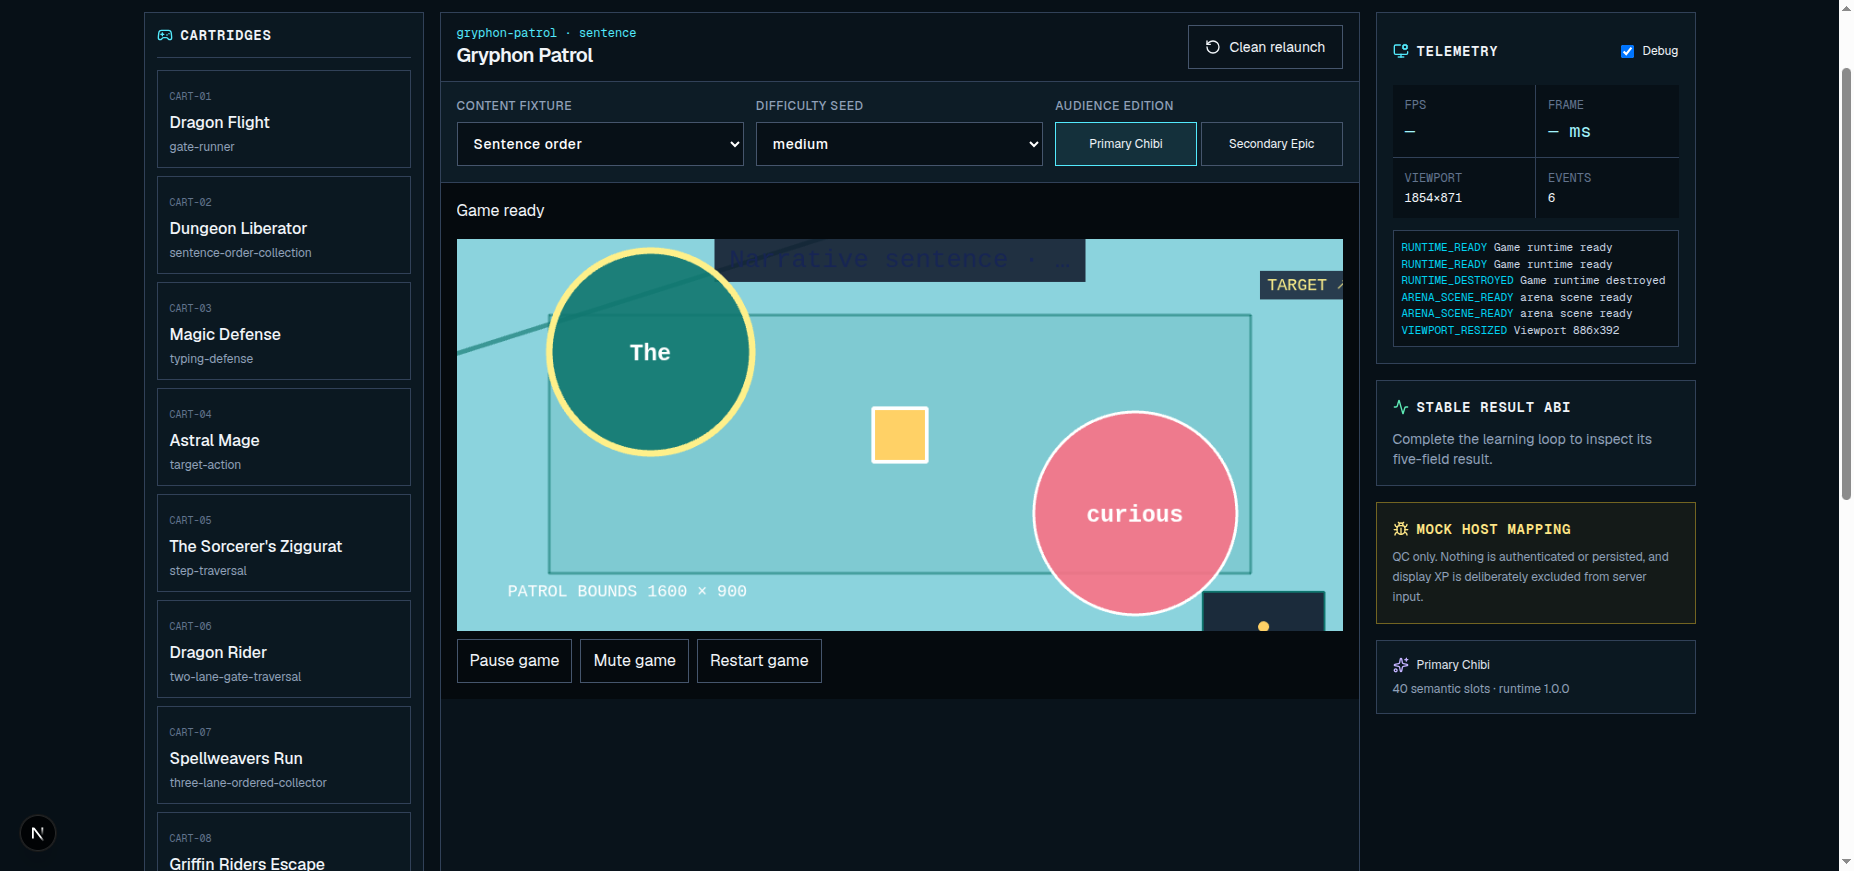
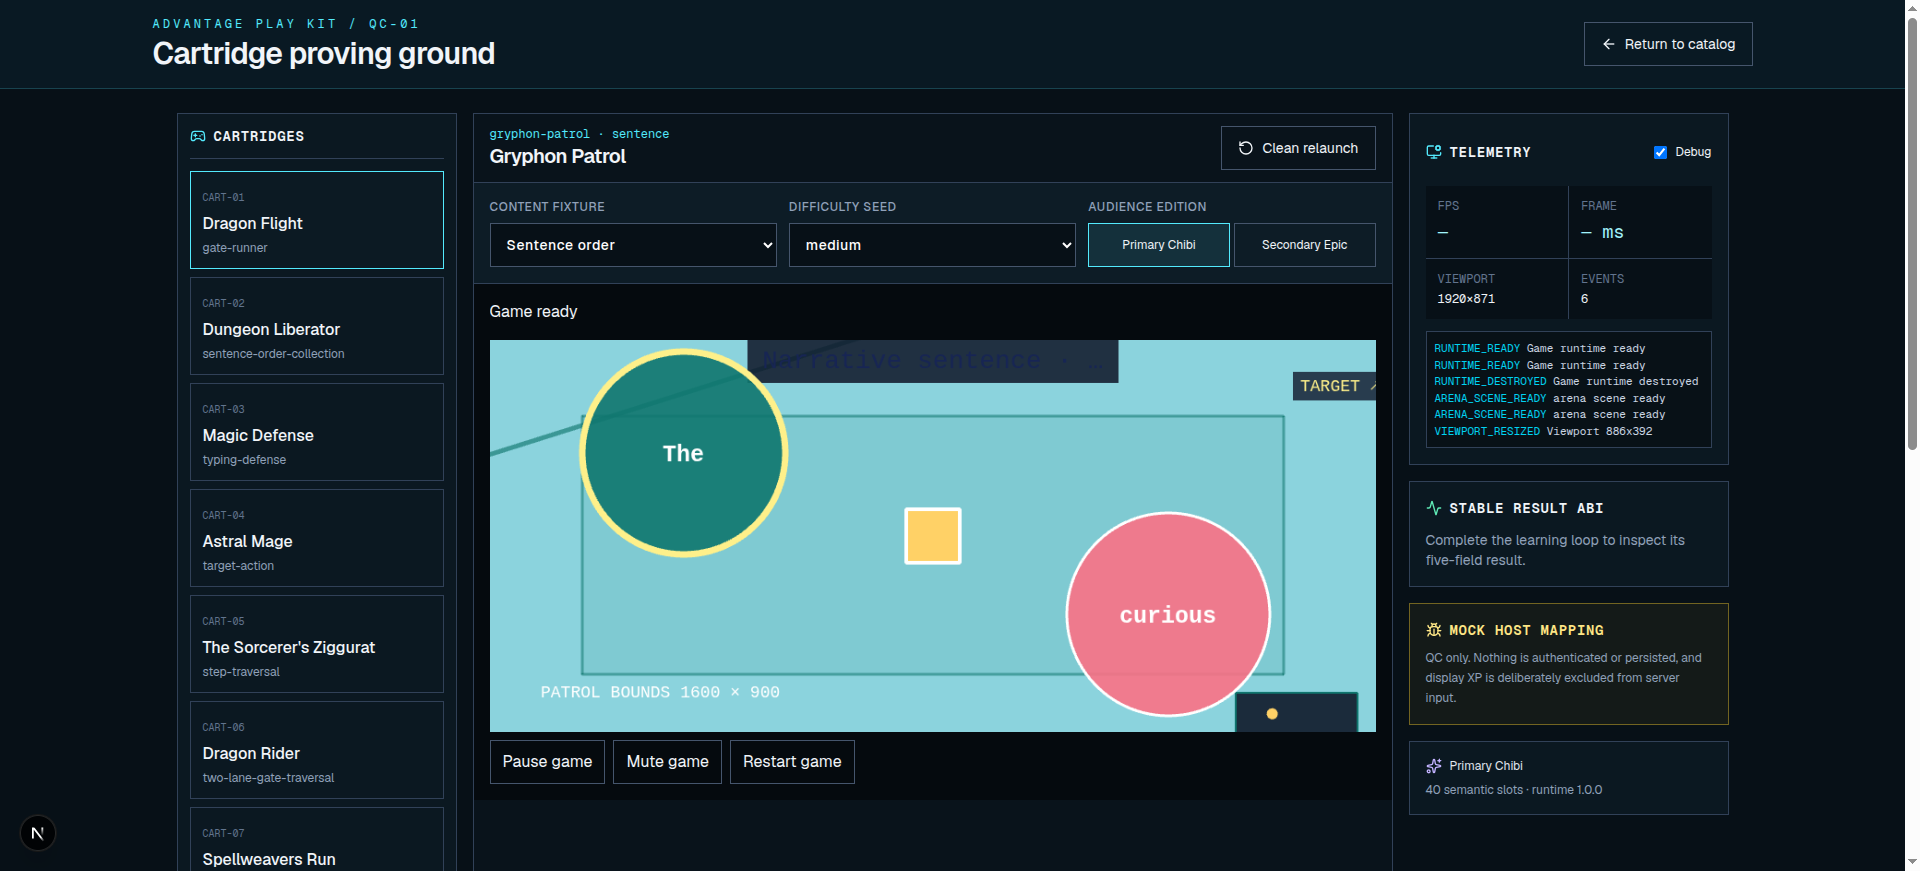
fix(games): close W4 review gaps (track_id: apk_arena_target_action_wave_w4_20260711)

diff --git a/packages/game-cartridges/src/families/arena/cartridge.ts b/packages/game-cartridges/src/families/arena/cartridge.ts
@@ -5,7 +5,7 @@ import type Phaser from "phaser";
 import type { ArenaWaveBlueprint } from "../../arena-wave-blueprints";
 import { createGameResults } from "../../internal/results";
 import type { GameCartridgeDefinition } from "../../internal/types";
-import { createArenaMechanicState, flapArenaState, resolveArenaMechanicAttempt } from ".";
+import { canResolveArenaAction, createArenaMechanicState, flapArenaState, projectToMinimap, resolveArenaMechanicAttempt } from ".";
 
 /** Options used by the shared W4 arena scene. */
 export interface ArenaSceneOptions {
@@ -55,6 +55,7 @@ function resolveRounds(blueprint: ArenaWaveBlueprint, input: VocabularyInput | S
 /** Creates one shared Phaser arena scene with cartridge-specific identity.
  * @param options Blueprint, content, edition, input, and host callbacks.
  * @returns A Phaser configuration with bounded movement and target resolution.
+ * @throws When host input is invalid or contains no playable targets.
  */
 export function createArenaGameConfig(options: ArenaSceneOptions): Phaser.Types.Core.GameConfig {
   const rounds = resolveRounds(options.blueprint, options.input);
@@ -122,11 +123,11 @@ export function createArenaGameConfig(options: ArenaSceneOptions): Phaser.Types.
           this.cameras.main.setBounds(0, 0, 1_600, 900).startFollow(player, true, 0.12, 0.12);
           this.add.text(870, 92, "TARGET ↗", { color: "#fef08a", fontSize: "18px", backgroundColor: "#0f172acc", padding: { x: 8, y: 6 } }).setScrollFactor(0);
         }
-        const title = this.add.text(24, 20, options.blueprint.id.replaceAll("-", " ").toUpperCase(), { color: options.edition.palette.text, fontSize: "18px", fontStyle: "bold" });
-        const prompt = this.add.text(480, 55, "", { color: options.edition.palette.text, backgroundColor: "#0f172add", fontSize: "28px", padding: { x: 16, y: 10 }, align: "center", wordWrap: { width: 760 } }).setOrigin(0.5, 0);
-        const progress = this.add.text(24, 500, "", { color: "#ffffff", fontSize: "17px" });
-        const minimap = this.add.rectangle(874, 478, 132, 76, 0x020617, 0.82).setStrokeStyle(2, accent);
-        const marker = this.add.circle(874, 478, 6, options.edition.palette.player);
+        const title = this.add.text(24, 20, options.blueprint.id.replaceAll("-", " ").toUpperCase(), { color: options.edition.palette.text, fontSize: "18px", fontStyle: "bold" }).setScrollFactor(0);
+        const prompt = this.add.text(480, 55, "", { color: options.edition.palette.text, backgroundColor: "#0f172add", fontSize: "28px", padding: { x: 16, y: 10 }, align: "center", wordWrap: { width: 760 } }).setOrigin(0.5, 0).setScrollFactor(0);
+        const progress = this.add.text(24, 500, "", { color: "#ffffff", fontSize: "17px" }).setScrollFactor(0);
+        const minimap = this.add.rectangle(874, 478, 132, 76, 0x020617, 0.82).setStrokeStyle(2, accent).setScrollFactor(0);
+        const marker = this.add.circle(874, 478, 6, options.edition.palette.player).setScrollFactor(0);
         void title; void minimap;
         const targets = [0, 1].map((slot) => {
           const [x, y] = targetLayout[slot]!;
@@ -150,8 +151,12 @@ export function createArenaGameConfig(options: ArenaSceneOptions): Phaser.Types.
           const round = rounds[roundIndex]; if (!round) return;
           totalAttempts += 1;
           const correct = choice === round.correct;
-          mechanicState = resolveArenaMechanicAttempt(mechanicState, correct);
           const target = targets.find((candidate) => candidate.label.text === choice) ?? targets[selectedIndex]!;
+          if (!canResolveArenaAction(mechanicState, { x: player.x, y: player.y }, { x: target.label.x, y: target.label.y })) {
+            options.diagnostic("ARENA_ACTION_OUT_OF_RANGE", { id: options.blueprint.id, altitude: mechanicState.altitude, playerX: player.x, playerY: player.y });
+            return;
+          }
+          mechanicState = resolveArenaMechanicAttempt(mechanicState, correct);
           const projectile = this.add.circle(player.x, player.y, 8, options.edition.palette.accent);
           this.tweens.add({ targets: projectile, x: target.label.x, y: target.label.y, duration: 140, onComplete: () => projectile.destroy() });
           if (correct) { correctAnswers += 1; score += 100; roundIndex += 1; } else { score = Math.max(0, score - 20); }
@@ -168,8 +173,9 @@ export function createArenaGameConfig(options: ArenaSceneOptions): Phaser.Types.
             (snapshot.keys.some((key) => ["ArrowLeft", "KeyA"].includes(key)) ? -speed : 0) + (snapshot.keys.some((key) => ["ArrowRight", "KeyD"].includes(key)) ? speed : 0),
             (snapshot.keys.some((key) => ["ArrowUp", "KeyW"].includes(key)) ? -speed : 0) + (snapshot.keys.some((key) => ["ArrowDown", "KeyS"].includes(key)) ? speed : 0),
           );
-          marker.setPosition(808 + player.x / 960 * 132, 440 + player.y / 540 * 76);
-          const newlyPressed = snapshot.keys.filter((key) => !previous.keys.includes(key));
+          const mapPoint = projectToMinimap({ x: player.x, y: player.y }, options.blueprint.mechanic === "patrol-minimap" ? { width: 1_600, height: 900 } : { width: 960, height: 540 }, { width: 132, height: 76 });
+          marker.setPosition(808 + mapPoint.x, 440 + mapPoint.y);
+          const newlyPressed = snapshot.pressed ?? snapshot.keys.filter((key) => !previous.keys.includes(key));
           if (newlyPressed.some((key) => ["ArrowLeft", "KeyA"].includes(key))) { selectedIndex = 0; render(); }
           if (newlyPressed.some((key) => ["ArrowRight", "KeyD"].includes(key))) { selectedIndex = 1; render(); }
           if (options.blueprint.mechanic === "aerial-ordered-targets" && newlyPressed.some((key) => ["ArrowUp", "KeyW"].includes(key))) {
@@ -178,8 +184,10 @@ export function createArenaGameConfig(options: ArenaSceneOptions): Phaser.Types.
           }
           if (newlyPressed.includes("Space") || newlyPressed.includes("Enter")) choose(targets[selectedIndex]?.label.text ?? "");
           if (previous.pointer.down && !snapshot.pointer.down && !snapshot.pointer.cancelled) {
-            selectedIndex = snapshot.pointer.x < window.innerWidth / 2 ? 0 : 1;
-            choose(targets[selectedIndex]?.label.text ?? "");
+            const rect = this.game.canvas.getBoundingClientRect();
+            const logical = { x: (snapshot.pointer.x - rect.left) / rect.width * 960, y: (snapshot.pointer.y - rect.top) / rect.height * 540 };
+            const hit = targets.findIndex((target) => Math.hypot(target.label.x - logical.x, target.label.y - logical.y) <= 120);
+            if (hit >= 0) { selectedIndex = hit; choose(targets[selectedIndex]?.label.text ?? ""); }
           }
           previous = snapshot;
         };

diff --git a/packages/game-cartridges/src/families/arena/index.ts b/packages/game-cartridges/src/families/arena/index.ts
@@ -12,6 +12,7 @@ export interface ArenaMechanicState {
   readonly targetCount: number;
   readonly resolved: number;
   readonly health: number;
+  readonly companionHealth: number;
   readonly wave: number;
   readonly altitude: number;
   readonly captured: number;
@@ -28,7 +29,7 @@ export interface ArenaMechanicState {
  */
 export function createArenaMechanicState(mechanic: ArenaMechanic, targetCount: number): ArenaMechanicState {
   if (!Number.isInteger(targetCount) || targetCount <= 0) throw new Error("arena target count must be a positive integer");
-  return { mechanic, targetCount, resolved: 0, health: mechanic === "paired-hero-arena" ? 6 : 3, wave: 1, altitude: mechanic === "aerial-ordered-targets" ? 0.5 : 0, captured: 0, shots: 0, complete: false };
+  return { mechanic, targetCount, resolved: 0, health: 3, companionHealth: mechanic === "paired-hero-arena" ? 3 : 0, wave: 1, altitude: mechanic === "aerial-ordered-targets" ? 0.5 : 0, captured: 0, shots: 0, complete: false };
 }
 
 /** Resolves a projectile, strike, patrol shot, or territory capture attempt.
@@ -39,9 +40,25 @@ export function createArenaMechanicState(mechanic: ArenaMechanic, targetCount: n
 export function resolveArenaMechanicAttempt(state: ArenaMechanicState, correct: boolean): ArenaMechanicState {
   if (state.complete) return state;
   const resolved = state.resolved + (correct ? 1 : 0);
-  const health = Math.max(0, state.health - (correct ? 0 : 1));
-  const complete = resolved >= state.targetCount || health === 0;
-  return { ...state, resolved, health, shots: state.shots + 1, wave: arenaWaveIndex(resolved, 3) + 1, captured: state.mechanic === "ordered-territory-capture" ? resolved : state.captured, complete, ...(complete ? { victory: resolved >= state.targetCount } : {}) };
+  const damageCompanion = state.mechanic === "paired-hero-arena" && state.shots % 2 === 1;
+  const health = Math.max(0, state.health - (!correct && !damageCompanion ? 1 : 0));
+  const companionHealth = Math.max(0, state.companionHealth - (!correct && damageCompanion ? 1 : 0));
+  const complete = resolved >= state.targetCount || health === 0 || (state.mechanic === "paired-hero-arena" && companionHealth === 0);
+  return { ...state, resolved, health, companionHealth, shots: state.shots + 1, wave: arenaWaveIndex(resolved, 3) + 1, captured: state.mechanic === "ordered-territory-capture" ? resolved : state.captured, complete, ...(complete ? { victory: resolved >= state.targetCount } : {}) };
+}
+
+/** Tests whether the active mechanic can reach a selected target.
+ * @param state Current specialized mechanic state.
+ * @param player Player world position.
+ * @param target Selected target world position.
+ * @returns Whether aim, altitude, patrol range, or capture range permits resolution.
+ */
+export function canResolveArenaAction(state: ArenaMechanicState, player: ArenaPoint, target: ArenaPoint): boolean {
+  const distance = Math.hypot(target.x - player.x, target.y - player.y);
+  if (state.mechanic === "aerial-ordered-targets") return Math.abs(state.altitude - target.y / 540) <= 0.3;
+  if (state.mechanic === "patrol-minimap") return distance <= 360;
+  if (state.mechanic === "ordered-territory-capture") return distance <= 300;
+  return true;
 }
 
 /** Applies one bounded flap impulse to aerial state.

diff --git a/packages/game-cartridges/src/families/arena/arena.test.ts b/packages/game-cartridges/src/families/arena/arena.test.ts
@@ -1,5 +1,5 @@
 import { describe, expect, it } from "vitest";
-import { arenaWaveIndex, createArenaMechanicState, expectedArenaTarget, flapArenaState, moveArenaPoint, projectilePathDistance, projectToMinimap, resolveArenaMechanicAttempt, territoryProgress } from ".";
+import { arenaWaveIndex, canResolveArenaAction, createArenaMechanicState, expectedArenaTarget, flapArenaState, moveArenaPoint, projectilePathDistance, projectToMinimap, resolveArenaMechanicAttempt, territoryProgress } from ".";
 
 describe("deterministic arena family", () => {
   it("clamps movement and projects the same position onto a minimap", () => {
@@ -25,8 +25,8 @@ describe("deterministic arena family", () => {
   });
   it("drives distinct survival, wave, aerial, and territory state", () => {
     const paladin = createArenaMechanicState("paired-hero-arena", 4);
-    expect(paladin.health).toBe(6);
-    expect(resolveArenaMechanicAttempt(paladin, false)).toMatchObject({ health: 5, shots: 1, resolved: 0 });
+    expect(paladin).toMatchObject({ health: 3, companionHealth: 3 });
+    expect(resolveArenaMechanicAttempt(paladin, false)).toMatchObject({ health: 2, companionHealth: 3, shots: 1, resolved: 0 });
     const progressed = resolveArenaMechanicAttempt(resolveArenaMechanicAttempt(resolveArenaMechanicAttempt(paladin, true), true), true);
     expect(progressed).toMatchObject({ wave: 2, resolved: 3, complete: false });
     const realm = resolveArenaMechanicAttempt(createArenaMechanicState("ordered-territory-capture", 1), true);
@@ -35,5 +35,9 @@ describe("deterministic arena family", () => {
     expect(aerial.altitude).toBe(1);
     expect(() => flapArenaState(paladin, 0.2)).toThrow(/aerial/);
     expect(() => createArenaMechanicState("patrol-minimap", 0)).toThrow(/target count/);
+    expect(canResolveArenaAction(aerial, { x: 0, y: 0 }, { x: 2, y: 540 })).toBe(true);
+    expect(canResolveArenaAction(aerial, { x: 0, y: 0 }, { x: 2, y: 0 })).toBe(false);
+    expect(canResolveArenaAction(createArenaMechanicState("patrol-minimap", 2), { x: 0, y: 0 }, { x: 300, y: 0 })).toBe(true);
+    expect(canResolveArenaAction(createArenaMechanicState("ordered-territory-capture", 2), { x: 0, y: 0 }, { x: 400, y: 0 })).toBe(false);
   });
 });

diff --git a/packages/advantage-play-kit/src/runtime/input.ts b/packages/advantage-play-kit/src/runtime/input.ts
@@ -22,6 +22,8 @@ export interface APKPointerState {
 export interface APKInputSnapshot {
   /** Pressed KeyboardEvent codes. */
   keys: readonly string[];
+  /** Key-down codes observed since the previous snapshot, including short taps. */
+  pressed?: readonly string[];
   /** Current primary pointer state. */
   pointer: APKPointerState;
   /** Whether this controller has released its listeners. */
@@ -43,6 +45,7 @@ export interface APKInputController {
  */
 export function createInputController(surface: HTMLElement): APKInputController {
   const keys = new Set<string>();
+  const pressed = new Set<string>();
   const pointer: APKPointerState = {
     down: false,
     cancelled: false,
@@ -58,6 +61,7 @@ export function createInputController(surface: HTMLElement): APKInputController 
 
   const onKeyDown = (event: KeyboardEvent) => {
     keys.add(event.code);
+    if (!event.repeat) pressed.add(event.code);
     if (["ArrowLeft", "ArrowRight", "ArrowUp", "ArrowDown", "Space"].includes(event.code)) {
       event.preventDefault();
     }
@@ -109,15 +113,21 @@ export function createInputController(surface: HTMLElement): APKInputController 
   surface.addEventListener("contextmenu", preventBrowserGesture);
 
   return {
-    snapshot: () => ({
-      keys: [...keys].sort(),
-      pointer: { ...pointer },
-      destroyed,
-    }),
+    snapshot: () => {
+      const snapshot: APKInputSnapshot = {
+        keys: [...keys].sort(),
+        pressed: [...pressed],
+        pointer: { ...pointer },
+        destroyed,
+      };
+      pressed.clear();
+      return snapshot;
+    },
     destroy: () => {
       if (destroyed) return;
       destroyed = true;
       keys.clear();
+      pressed.clear();
       pointer.down = false;
       pointer.cancelled = false;
       pointer.id = null;

diff --git a/packages/game-cartridges/src/__tests__/arena-wave-contract.test.ts b/packages/game-cartridges/src/__tests__/arena-wave-contract.test.ts
@@ -70,15 +70,20 @@ describe("APK arena and target-action W4 contract", () => {
       expect(existsSync(resolve(root, `apps/advantage-games/src/lib/games/${legacyName}.ts`))).toBe(false);
       expect(existsSync(resolve(root, `apps/advantage-games/src/lib/games/${legacyName}Config.ts`))).toBe(false);
     }
-    const e2eRoot = resolve(root, "apps/advantage-games/tests/e2e");
-    const e2eFiles = readdirSync(e2eRoot, { recursive: true, withFileTypes: true })
-      .filter((entry) => entry.isFile() && entry.name.endsWith(".ts"))
-      .map((entry) => resolve(entry.parentPath, entry.name));
-    for (const file of e2eFiles) {
-      const source = readFileSync(file, "utf8");
-      for (const id of ids) {
-        expect(source).not.toContain(`/api/v1/${["games", id].join("/")}`);
-        expect(source).not.toMatch(new RegExp(`/student/games/(?:sentence|vocabulary)/${id}`));
+    const legacyReferenceRoots = [
+      resolve(root, "apps/advantage-games/src"),
+      resolve(root, "apps/advantage-games/tests/e2e"),
+    ];
+    for (const legacyReferenceRoot of legacyReferenceRoots) {
+      const sourceFiles = readdirSync(legacyReferenceRoot, { recursive: true, withFileTypes: true })
+        .filter((entry) => entry.isFile() && /\.(?:ts|tsx)$/.test(entry.name))
+        .map((entry) => resolve(entry.parentPath, entry.name));
+      for (const file of sourceFiles) {
+        const source = readFileSync(file, "utf8");
+        for (const id of ids) {
+          expect(source).not.toContain(`/api/v1/${["games", id].join("/")}`);
+          expect(source).not.toMatch(new RegExp(`/student/games/(?:sentence|vocabulary)/${id}`));
+        }
       }
     }
   });

diff --git a/packages/advantage-play-kit/src/runtime/input.test.ts b/packages/advantage-play-kit/src/runtime/input.test.ts
@@ -14,6 +14,7 @@ describe("createInputController", () => {
     }));
     expect(controller.snapshot()).toMatchObject({
       keys: ["ArrowLeft"],
+      pressed: ["ArrowLeft"],
       pointer: {
         down: true,
         cancelled: false,
@@ -31,6 +32,17 @@ describe("createInputController", () => {
     window.dispatchEvent(new KeyboardEvent("keyup", { code: "ArrowLeft" }));
     expect(controller.snapshot().destroyed).toBe(true);
     expect(surface.style.touchAction).toBe("");
+  });
+
+  it("queues a short key tap until a cartridge consumes the next snapshot", () => {
+    const surface = document.createElement("div");
+    const controller = createInputController(surface);
+    window.dispatchEvent(new KeyboardEvent("keydown", { code: "Space" }));
+    window.dispatchEvent(new KeyboardEvent("keyup", { code: "Space" }));
+
+    expect(controller.snapshot()).toMatchObject({ keys: [], pressed: ["Space"] });
+    expect(controller.snapshot()).toMatchObject({ keys: [], pressed: [] });
+    controller.destroy();
   });
 
   it("retains pointer kind and origin through release for gesture resolution", () => {

diff --git a/apps/advantage-games/src/lib/games/__tests__/gameDataArrays.test.ts b/apps/advantage-games/src/lib/games/__tests__/gameDataArrays.test.ts
@@ -56,14 +56,9 @@ describe('Game data arrays', () => {
       ])
     })
 
-    it('gryphon-patrol should have at least 10 sentences in route file', () => {
-      const routePath = path.join(
-        process.cwd(),
-        'src/app/api/v1/games/gryphon-patrol/sentences/route.ts'
-      )
-      const content = fs.readFileSync(routePath, 'utf8')
-      const termMatches = content.match(/term:\s*['"]/g) || []
-      expect(termMatches.length).toBeGreaterThanOrEqual(MINIMUM_DATA_COUNT)
+    it('gryphon-patrol consumes the strict shared sentence fixture', () => {
+      expect(getArcadeContent('sentence')).toHaveLength(2)
+      expect(getArcadeContent('sentence').every(item => item.term && item.translation)).toBe(true)
     })
   })
 

diff --git a/measure/tracks/apk_arena_target_action_wave_w4_20260711/browser-verification.md b/measure/tracks/apk_arena_target_action_wave_w4_20260711/browser-verification.md
@@ -12,16 +12,18 @@ Accepted locally on 2026-07-11 against the current W4 source and package build.
 - Applied a real `390x844` device override through Kimi CDP; every cartridge retained one canvas, `touch-action: none`, readable targets/controls, and zero horizontal overflow.
 - Visually inspected the final screenshots after the distinct-scene correction: Archer wall defense, Paladin twin heroes/wave status, Griffin aerial clouds/flap lane, Gryphon patrol bounds/minimap, and Realm territory grid.
 - Re-ran the evidence after the mandatory-review correction that connected projectile shots, health/failure, wave progress, flap altitude, patrol camera state, territory capture, aimed keyboard selection, and normalized pointer release to the runtime state.
+- Re-ran the evidence after queuing short keyboard press edges in the APK input adapter, so a press/release between Phaser frames is consumed exactly once instead of being lost.
 - Canonical evidence is stored under `browser-evidence/kimi-<public-id>-{desktop,mobile}.png`.
 
 Kimi's first command timed out while the extension was disconnected. After reconnection, the complete manual pass above succeeded. Transient screenshots captured before the replacement canvas appeared were discarded and are not evidence.
 
 ## Automated interaction pass
 
-`PLAYWRIGHT_PORT=3300 playwright test tests/e2e/apk-w4.spec.ts --project=chromium --workers=1`
+`PLAYWRIGHT_PORT=3300 pnpm exec playwright test tests/e2e/apk-w4.spec.ts --project=chromium`
 
 - Five desktop keyboard scenarios completed under Secondary Epic with 100% results and lifecycle-safe edition switching. An adversarial Archer scenario aimed right for one wrong shot, then left for four correct shots, and verified the exact five result keys with 80% accuracy.
 - One mobile touch scenario completed all five games at `390x844`, waiting for every `ARENA_TARGET_RESOLVED` event and asserting no horizontal overflow.
+- Final result: 7 passed in 2.5 minutes.
 - Ten final Playwright screenshots were produced in `apps/advantage-games/test-results/`; test outputs remain ignored runtime artifacts rather than committed evidence.
 
 ## Verification notes
